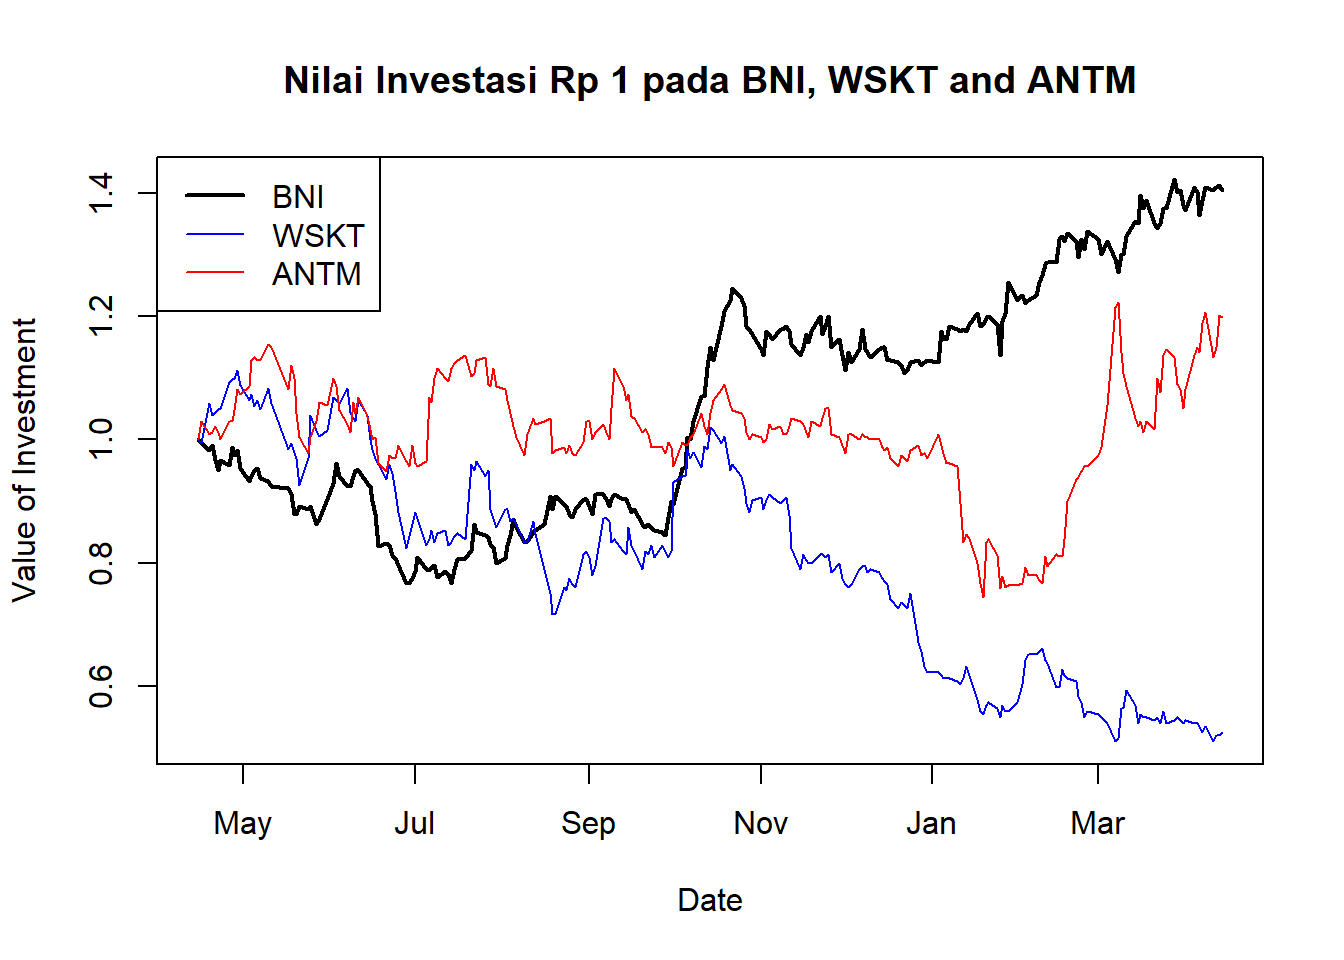
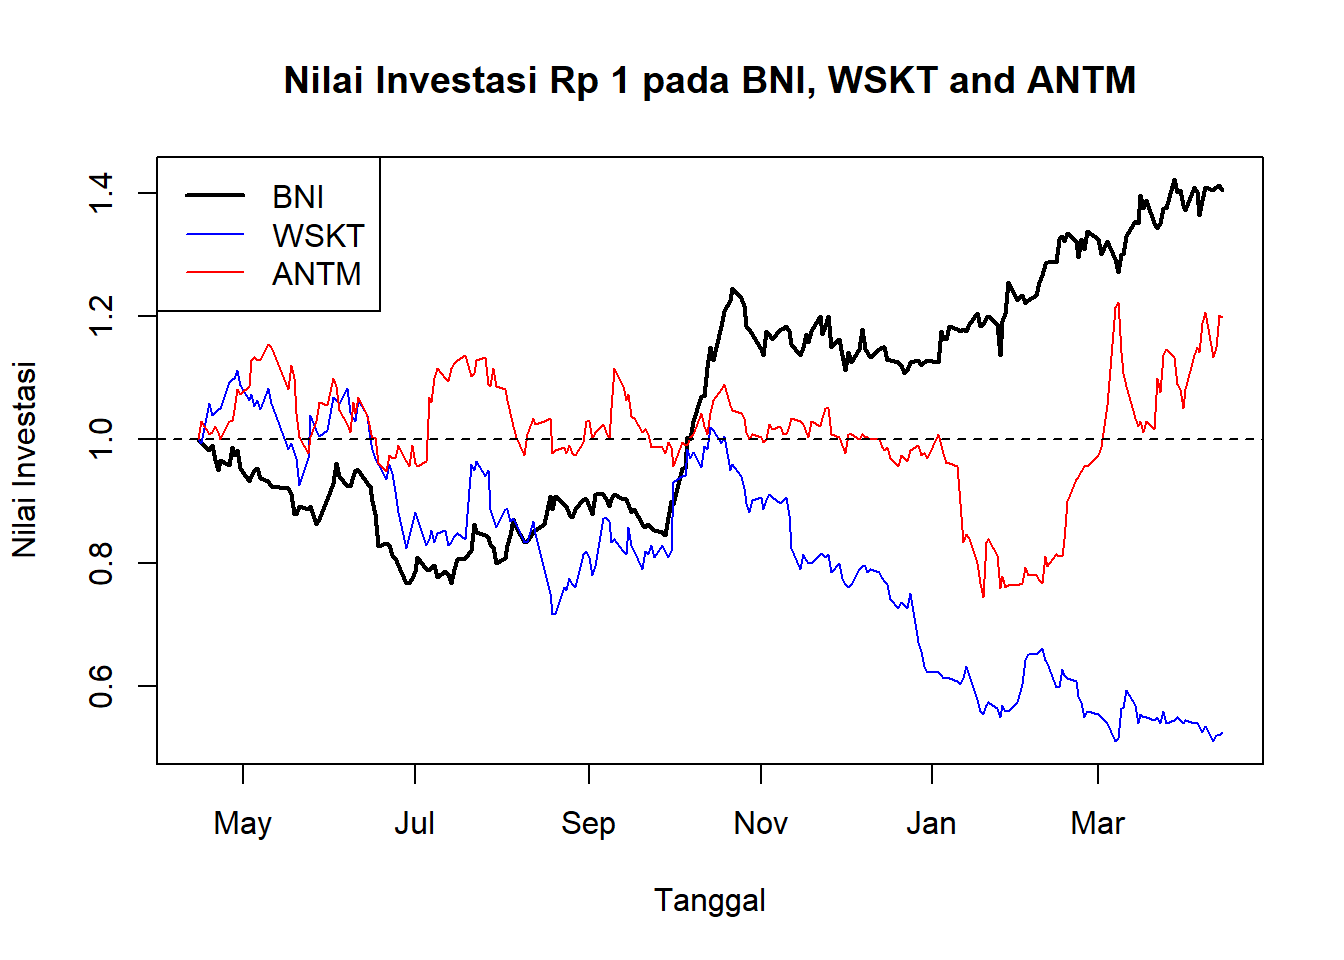
update s3 with abline

Changed region(s): [[0.0, 0.3125, 0.0312, 0.625], [0.5, 0.9062, 0.5625, 0.9688]]

diff --git a/content/post/2022-04-12-return-dan-risiko/index.html b/content/post/2022-04-12-return-dan-risiko/index.html
@@ -373,14 +373,15 @@ head(norm.prc)</code></pre>
 <pre class="r"><code>dt &lt;- index(norm.prc)
 plot(x = dt,
      y = norm.prc$BNI,
-     xlab = &quot;Date&quot;,
-     ylab = &quot;Value of Investment&quot;,
+     xlab = &quot;Tanggal&quot;,
+     ylab = &quot;Nilai Investasi&quot;,
      ylim = y.range,
      type = &quot;l&quot;,
      lwd = 2,
      main = &quot;Nilai Investasi Rp 1 pada BNI, WSKT and ANTM&quot;)
 lines(x = dt, y = norm.prc$WSKT, col = &quot;blue&quot;)
 lines(x = dt, y = norm.prc$ANTM, col = &quot;red&quot;)
+abline(h = 1, lty = 2)
 legend (&quot;topleft&quot;, c(&quot;BNI&quot;, &quot;WSKT&quot;,&quot;ANTM&quot;),
        lwd = c(2, 1, 1),
        col = c(&quot;black&quot;, &quot;blue&quot;, &quot;red&quot;))</code></pre>

diff --git a/docs/post/2022/04/12/return-dan-risiko/index.html b/docs/post/2022/04/12/return-dan-risiko/index.html
@@ -449,14 +449,15 @@ head(norm.prc)</code></pre>
 <pre class="r"><code>dt &lt;- index(norm.prc)
 plot(x = dt,
      y = norm.prc$BNI,
-     xlab = &quot;Date&quot;,
-     ylab = &quot;Value of Investment&quot;,
+     xlab = &quot;Tanggal&quot;,
+     ylab = &quot;Nilai Investasi&quot;,
      ylim = y.range,
      type = &quot;l&quot;,
      lwd = 2,
      main = &quot;Nilai Investasi Rp 1 pada BNI, WSKT and ANTM&quot;)
 lines(x = dt, y = norm.prc$WSKT, col = &quot;blue&quot;)
 lines(x = dt, y = norm.prc$ANTM, col = &quot;red&quot;)
+abline(h = 1, lty = 2)
 legend (&quot;topleft&quot;, c(&quot;BNI&quot;, &quot;WSKT&quot;,&quot;ANTM&quot;),
        lwd = c(2, 1, 1),
        col = c(&quot;black&quot;, &quot;blue&quot;, &quot;red&quot;))</code></pre>
